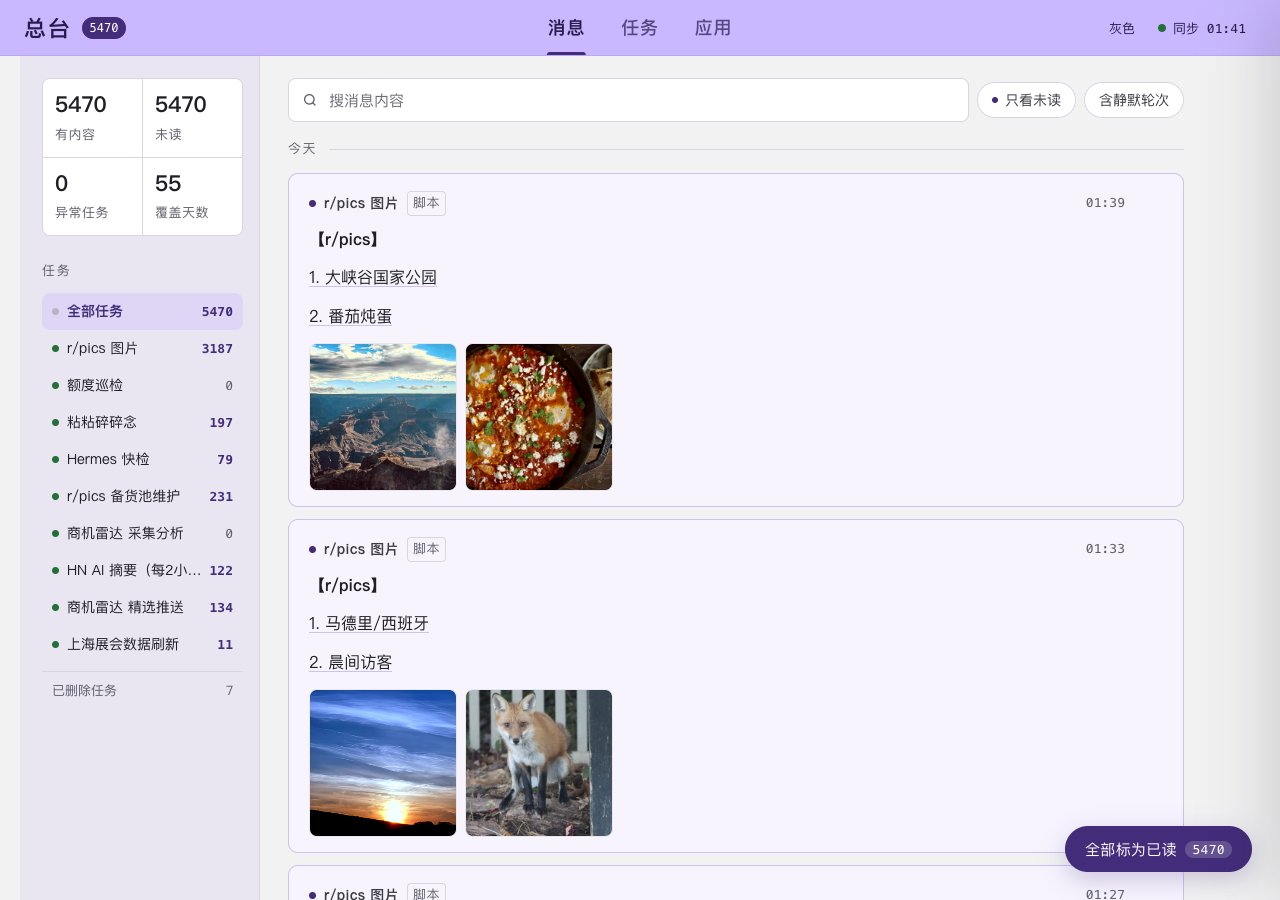
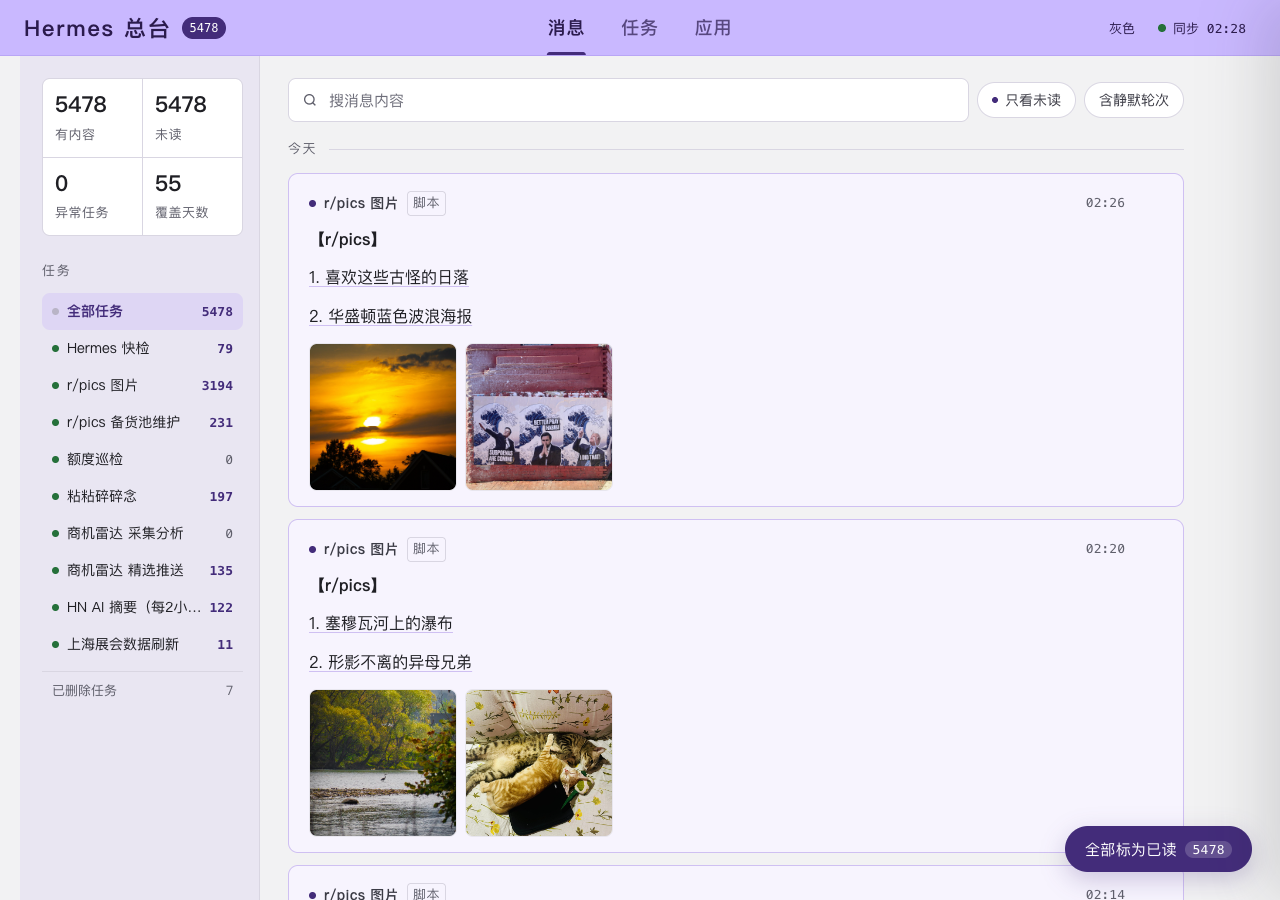
标题改为 Hermes 总台并重拍截图

diff --git a/static/index.html b/static/index.html
@@ -3,7 +3,7 @@
 <head>
 <meta charset="utf-8">
 <meta name="viewport" content="width=device-width, initial-scale=1">
-<title>总台</title>
+<title>Hermes 总台</title>
 <meta name="theme-color" content="#c9b8ff">
 <link rel="icon" href="/static/favicon.svg" type="image/svg+xml">
 <script>
@@ -15,7 +15,7 @@ try { if (localStorage.getItem("hub_theme") === "gray") document.documentElement
 
 <header class="topbar">
   <div class="brand">
-    <h1>总台</h1>
+    <h1>Hermes 总台</h1>
     <span class="unread-pill zero" id="unreadPill">0</span>
   </div>
   <nav class="tabs" role="tablist">

diff --git a/开发记录.md b/开发记录.md
@@ -13,6 +13,7 @@
 3. 配置可移植：apps.json 的 path 改成相对本项目的路径，server 支持 ~ 与相对路径；ALLOW_ROOTS 由 ~/.hermes 与项目上级目录推导，不再写死用户名。
 4. README 补功能、安装、截图、配置与接口；新增 效果图/09-灰色主题.png。
 5. 推送到 GitHub 的 buxuele/my_hermes_manager。
+6. 界面标题与顶栏品牌改为 Hermes 总台，README 同步。
 
 ### 验证
 
@@ -20,6 +21,7 @@
 2. 24 个测试全过；两个启动入口都能识别运行中的 8899 实例，没有起第二个进程。
 3. 无头浏览器 1280 与 390 实测主题按钮不与品牌、同步状态重叠，控制台 0 条报错。
 4. 应用目录改成相对路径后，商机雷达仍在线，Hermes 文档 157 个文件，本机笔记 14 个文件。
+5. 标题改动用独立端口 8905 临时起服务验证：document.title 与顶栏均为 Hermes 总台，1280 与 390 无重叠，控制台 0 条报错，验证进程已按进程号关闭，9 张截图重拍。
 
 ## 2026-11-25 审查修复与紫系界面
 

diff --git a/README.md b/README.md
@@ -1,6 +1,6 @@
 # my_hermes_manager
 
-Hermes 定时任务的消息时间线，外加独立应用面板。本地叫总台。
+Hermes 定时任务的消息时间线，外加独立应用面板。界面标题 Hermes 总台。
 
 ## 功能
 
